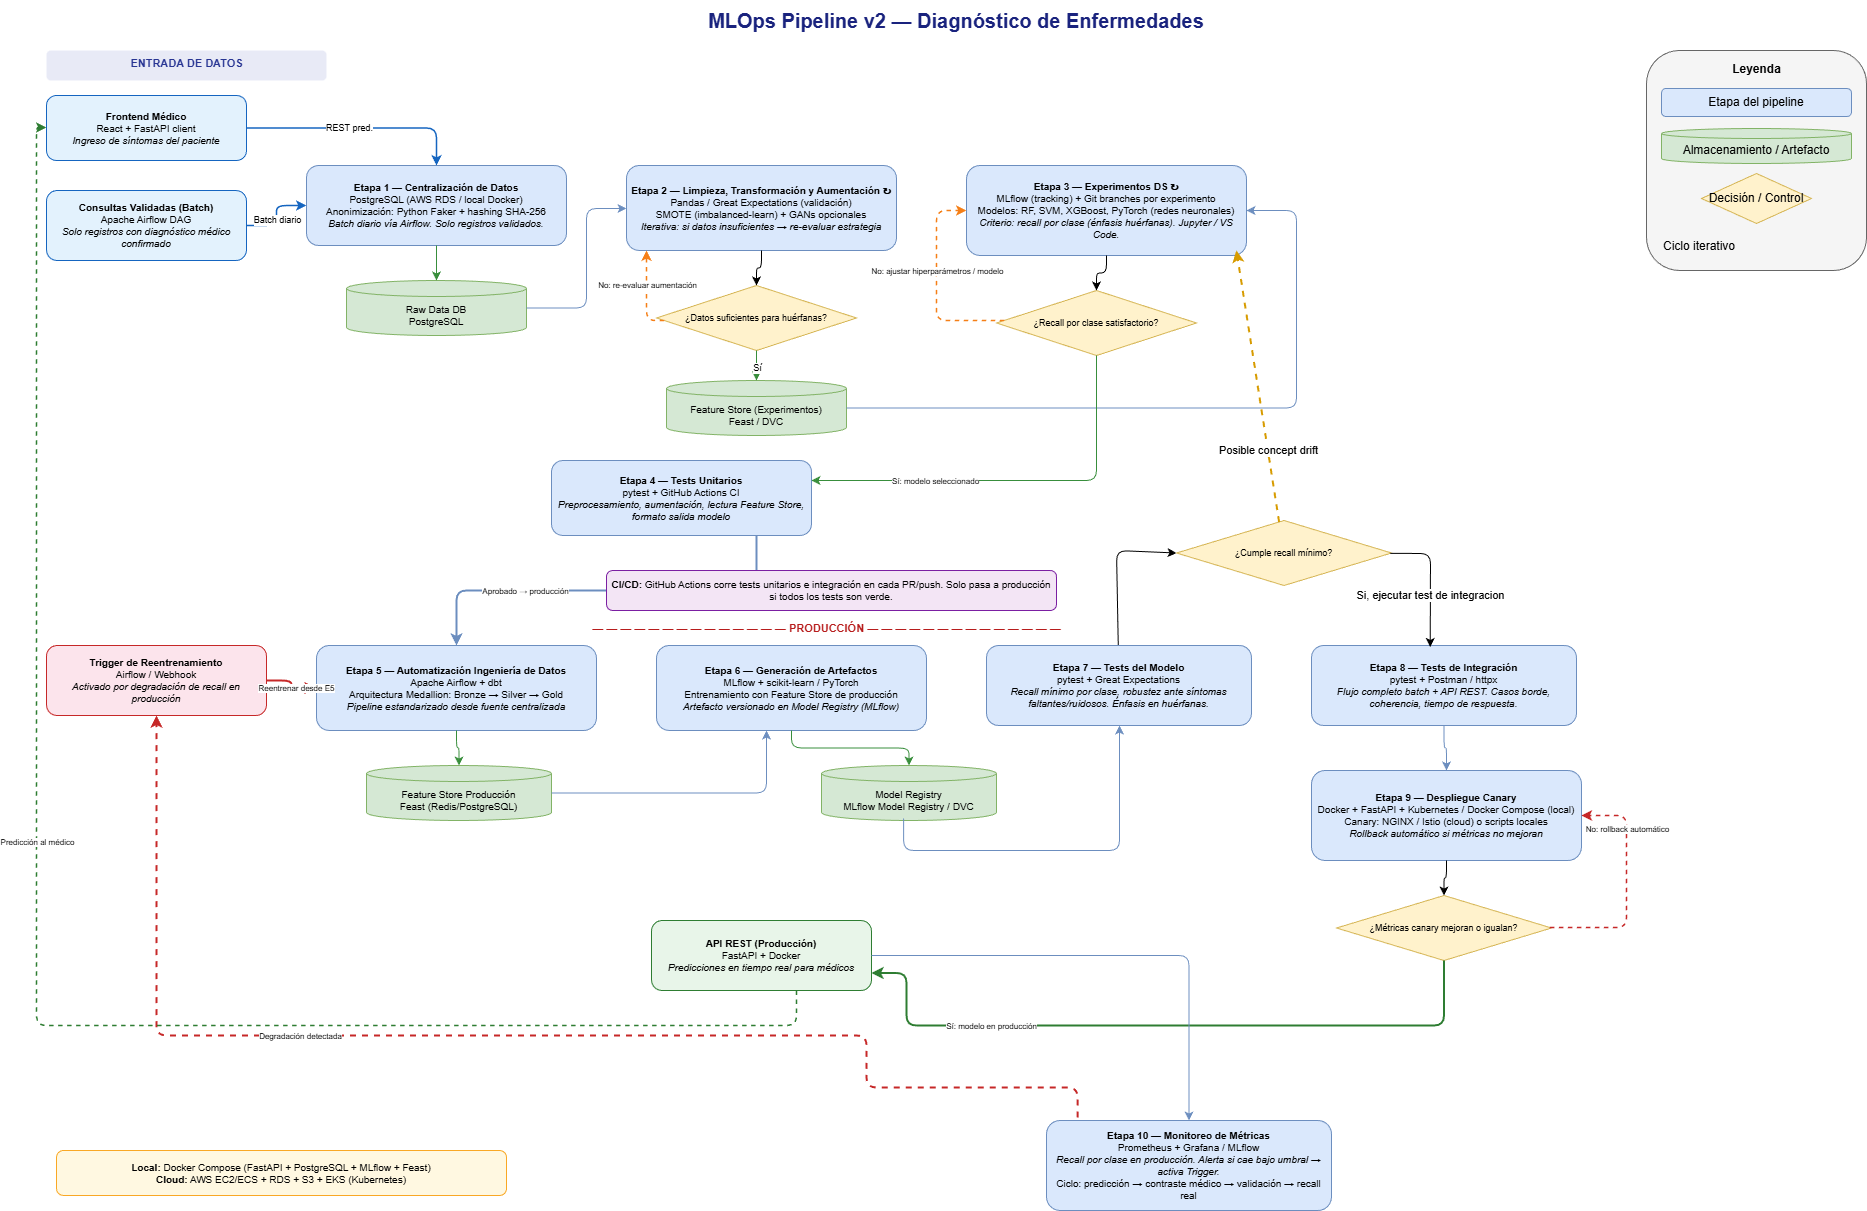
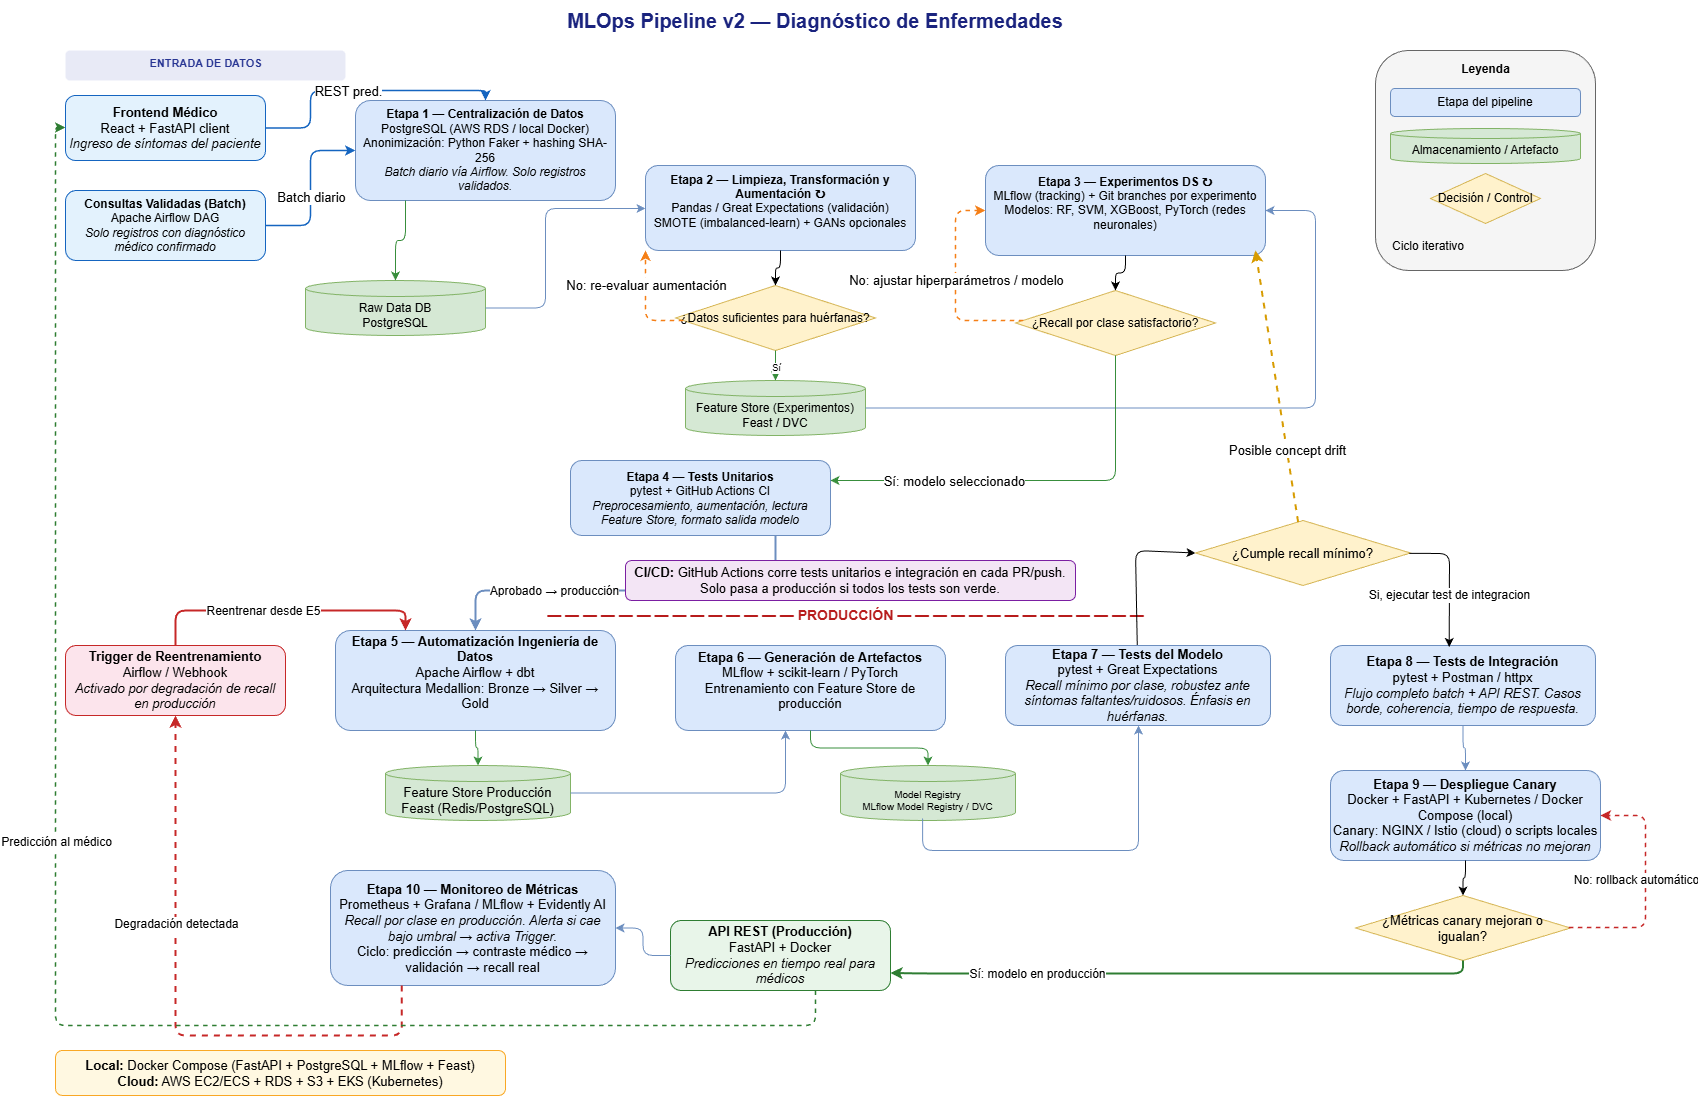
Ajustes de forma

diff --git a/README.md b/README.md
@@ -379,6 +379,7 @@ Se monitorea el recall por clase en producción de forma continua. El ciclo de v
 | **MLflow** | Registro de métricas del modelo en producción | Cuando un registro validado llega (batch diario), se calcula el recall acumulado y se registra en MLflow como métrica de producción asociada a la versión del modelo activa. |
 | **Airflow** | Cálculo periódico del recall real | Un DAG diario compara las predicciones del día anterior con los diagnósticos confirmados disponibles y actualiza las métricas de producción. |
 | **PagerDuty / Slack Webhook** (opcional) | Alertas | Si Grafana detecta que el recall de alguna clase cae por debajo del umbral, dispara una alerta al equipo vía Slack o PagerDuty. |
+| **Evidently AI** | Data drift | Evalua snapshots de datos entrada vs los que tiene en el entrenamiento, alerta si nota cambios en la distribución de los mismos |
 
 ### Ciclo de validación
 
@@ -404,7 +405,7 @@ Si se detecta posible concept drift → revisión manual en Etapa 3
 
 El monitoreo distingue dos tipos de degradación de rendimiento:
 
-- **Degradación gradual por nuevos datos:** el recall cae progresivamente porque el modelo no ha visto suficientes ejemplos recientes. Se resuelve con el **Trigger de reentrenamiento** (Etapas 5 → 9).
+- **Degradación gradual por nuevos datos (data drift):** el recall cae progresivamente porque el modelo no ha visto suficientes ejemplos recientes o las distribuciones de los datos que reconoce Evidently AI son diferentes. Se resuelve con el **Trigger de reentrenamiento** (Etapas 5 → 9).
 - **Posible concept drift:** cuando la distribución de síntomas o la relación síntoma-enfermedad cambia de forma más brusca o persistente (por ejemplo, variantes estacionales de una enfermedad, cambios en los criterios diagnósticos, o aparición de nuevas comorbilidades). En este caso el sistema genera una alerta específica al equipo para que revisen los experimentos en la **Etapa 3** y evalúen si es necesario ajustar los modelos o las estrategias de aumentación antes de reentrenar.
 
 > **Suposición:** la detección de concept drift es actualmente heurística — se dispara cuando la degradación del recall supera un umbral más alto que el del reentrenamiento rutinario, o cuando el patrón de degradación es abrupto en lugar de gradual. Una implementación más robusta puede incorporar tests estadísticos de distribución (e.g., Population Stability Index, test de Kolmogorov-Smirnov sobre las features en producción).
@@ -481,6 +482,7 @@ Al detectar degradación del recall en producción, el Trigger reinicia el pipel
 | Alertas | Slack Webhook / PagerDuty | Producción |
 | Frontend médico | React + FastAPI client (estado actual); HTML/CSS/JS + Fetch API (prototipo base) | UX |
 | Control de versiones | Git + GitHub | Todo |
+| Data drift | Evidently AI | Monitoreo Producción |
 
 ---
 
